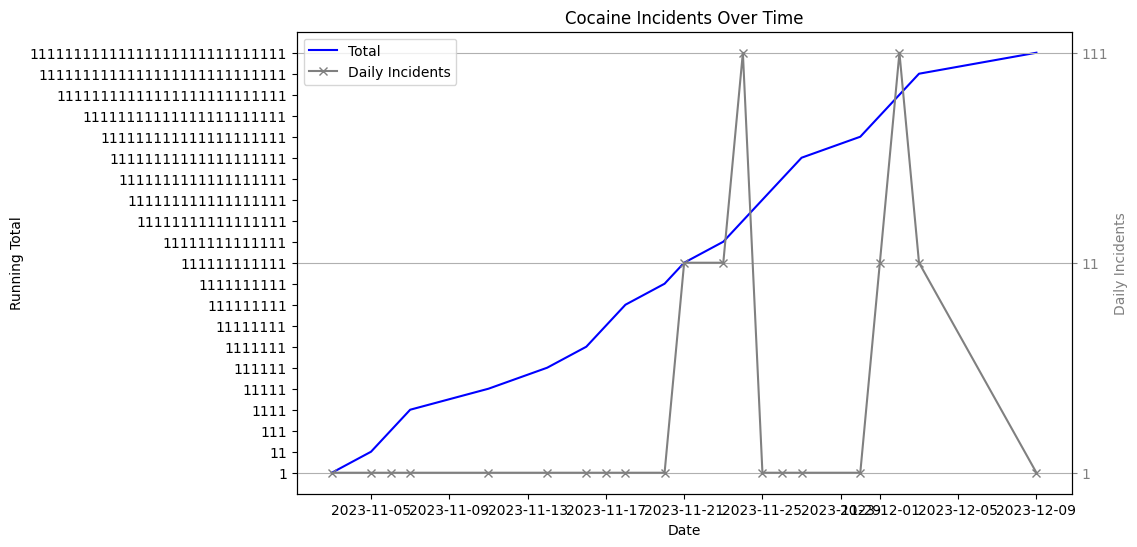
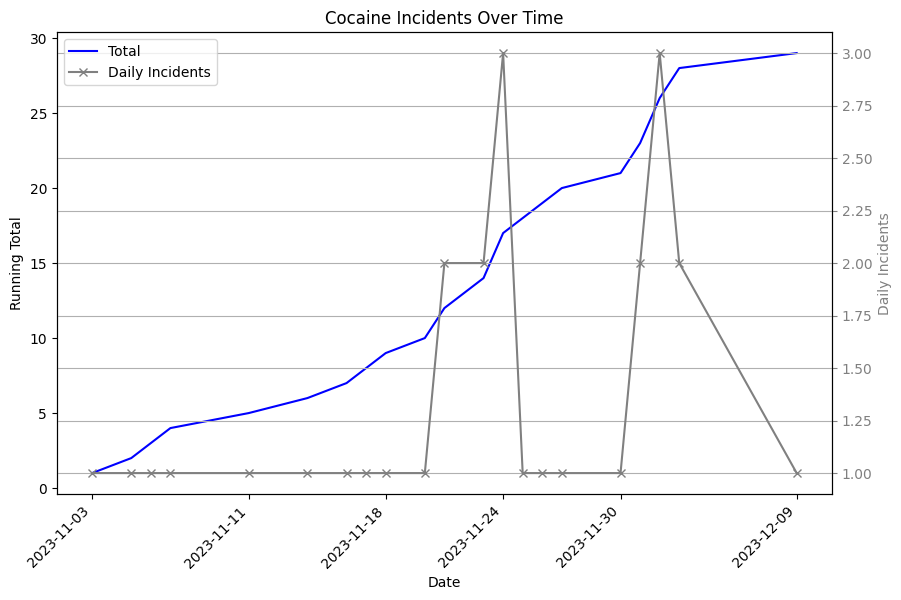
index.html and css file

diff --git a/index.html b/index.html
@@ -1,0 +1,57 @@
+
+<head>
+    <meta charset="UTF-8">
+    <meta name="viewport" content="width=device-width, initial-scale=1.0">
+    <title>Drug & Alcohol Incidents Statistics</title>
+
+    <!-- Link to external stylesheet -->
+    <link rel="stylesheet" href="styles.css">
+</head>
+
+<!-- MAIN (Center website) -->
+<div class="main">
+
+    <h1>Drug & Alcohol Incidents in Winnipeg</h1>
+    <hr>
+    
+    <h2>From data.winnipeg.ca </h2>
+    
+    <!-- Portfolio Gallery Grid -->
+    <div class="content">
+        <img src="data/Drug.png" alt="Bear" style="width:100%">
+        <h4>TOTAL</h4>
+    </div>
+    <div class="row">
+      <div class="content">
+        <div class="content">
+          <img src="data/Alcohol.png" alt="Alcohol" style="width:100%">
+          <h4>Alcohol</h4>
+        </div>
+      </div>
+      <div class="content">
+        <div class="content">
+          <img src="data/Crystal_Meth.png" alt="Crystal Meth" style="width:100%">
+          <h4>Crystal Meth</h4>
+        </div>
+      </div>
+      <div class="content">
+        <div class="content">
+          <img src="data/Marijuana.png" alt="Marijuana" style="width:100%">
+          <h4>Marijuana</h4>
+        </div>
+      </div>
+      <div class="content">
+        <div class="content">
+          <img src="data/Opioids.png" alt="Opioids" style="width:100%">
+          <h4>Opioids</h4>
+        </div>
+      </div>
+      <div class="content">
+        <div class="content">
+          <img src="data/Cocaine.png" alt="Cocaine" style="width:100%">
+          <h4>Cocaine</h4>
+        </div>
+      </div>
+    </div>
+    <!-- END MAIN -->
+    </div>

diff --git a/styles.css b/styles.css
@@ -1,0 +1,63 @@
+* {
+    box-sizing: border-box;
+  }
+  
+  body {
+    background-color: #f1f1f1;
+    padding: 20px;
+    font-family: Arial;
+  }
+  
+  /* Center website */
+  .main {
+    max-width: 1000px;
+    margin: auto;
+  }
+  
+  h1 {
+    font-size: 50px;
+    word-break: break-all;
+  }
+  
+  .row {
+    margin: 8px -16px;
+  }
+  
+  /* Add padding BETWEEN each column (if you want) */
+  .row,
+  .row > .column {
+    padding: 8px;
+  }
+  
+  /* Create four equal columns that floats next to each other */
+  .column {
+    float: left;
+    width: 25%;
+  }
+  
+  /* Clear floats after rows */
+  .row:after {
+    content: "";
+    display: table;
+    clear: both;
+  }
+  
+  /* Content */
+  .content {
+    background-color: white;
+    padding: 10px;
+  }
+  
+  /* Responsive layout - makes a two column-layout instead of four columns */
+  @media screen and (max-width: 900px) {
+    .column {
+      width: 50%;
+    }
+  }
+  
+  /* Responsive layout - makes the two columns stack on top of each other instead of next to each other */
+  @media screen and (max-width: 600px) {
+    .column {
+      width: 100%;
+    }
+  }

diff --git a/fetchplotdata.py b/fetchplotdata.py
@@ -6,15 +6,18 @@ from sodapy import Socrata
 
 
 client = Socrata("data.winnipeg.ca", None)
-df = pd.DataFrame(client.get("6x82-bz5y"))
+df = pd.DataFrame.from_records(client.get("6x82-bz5y"))
 
 # save fetched data to csv file
 df.to_csv("data/data.csv")
 
-# get date valuefrom dispatch_date
+# get date value from dispatch_date
 df['dispatch_date'] = df['dispatch_date'].apply(lambda x: np.char.split(x, 'T')).apply(lambda x: x[0])
 # change format to datetime
 df['dispatch_date'] = pd.to_datetime(df['dispatch_date'])
+# change format to int
+df['patient_number'] = df['patient_number'].astype(int)
+
 # fill NA
 df.fillna('N.A.', inplace=True)
 
@@ -67,6 +70,12 @@ def plot_and_save(df, name):
   # Adding labels for the second y-axis
   ax2.set_ylabel('Daily Incidents', color='grey')
   ax2.tick_params('y', colors='grey')
+  
+  n = 5
+  xticks_indices = range(0, len(df['dispatch_date']), len(df['dispatch_date']) // n)
+  xticks_labels = df['dispatch_date'].iloc[xticks_indices].dt.date
+  ax1.set_xticks(xticks_labels)
+  ax1.set_xticklabels(xticks_labels, rotation=45, ha='right')
 
   # Adding legend
   lines, labels = ax1.get_legend_handles_labels()
